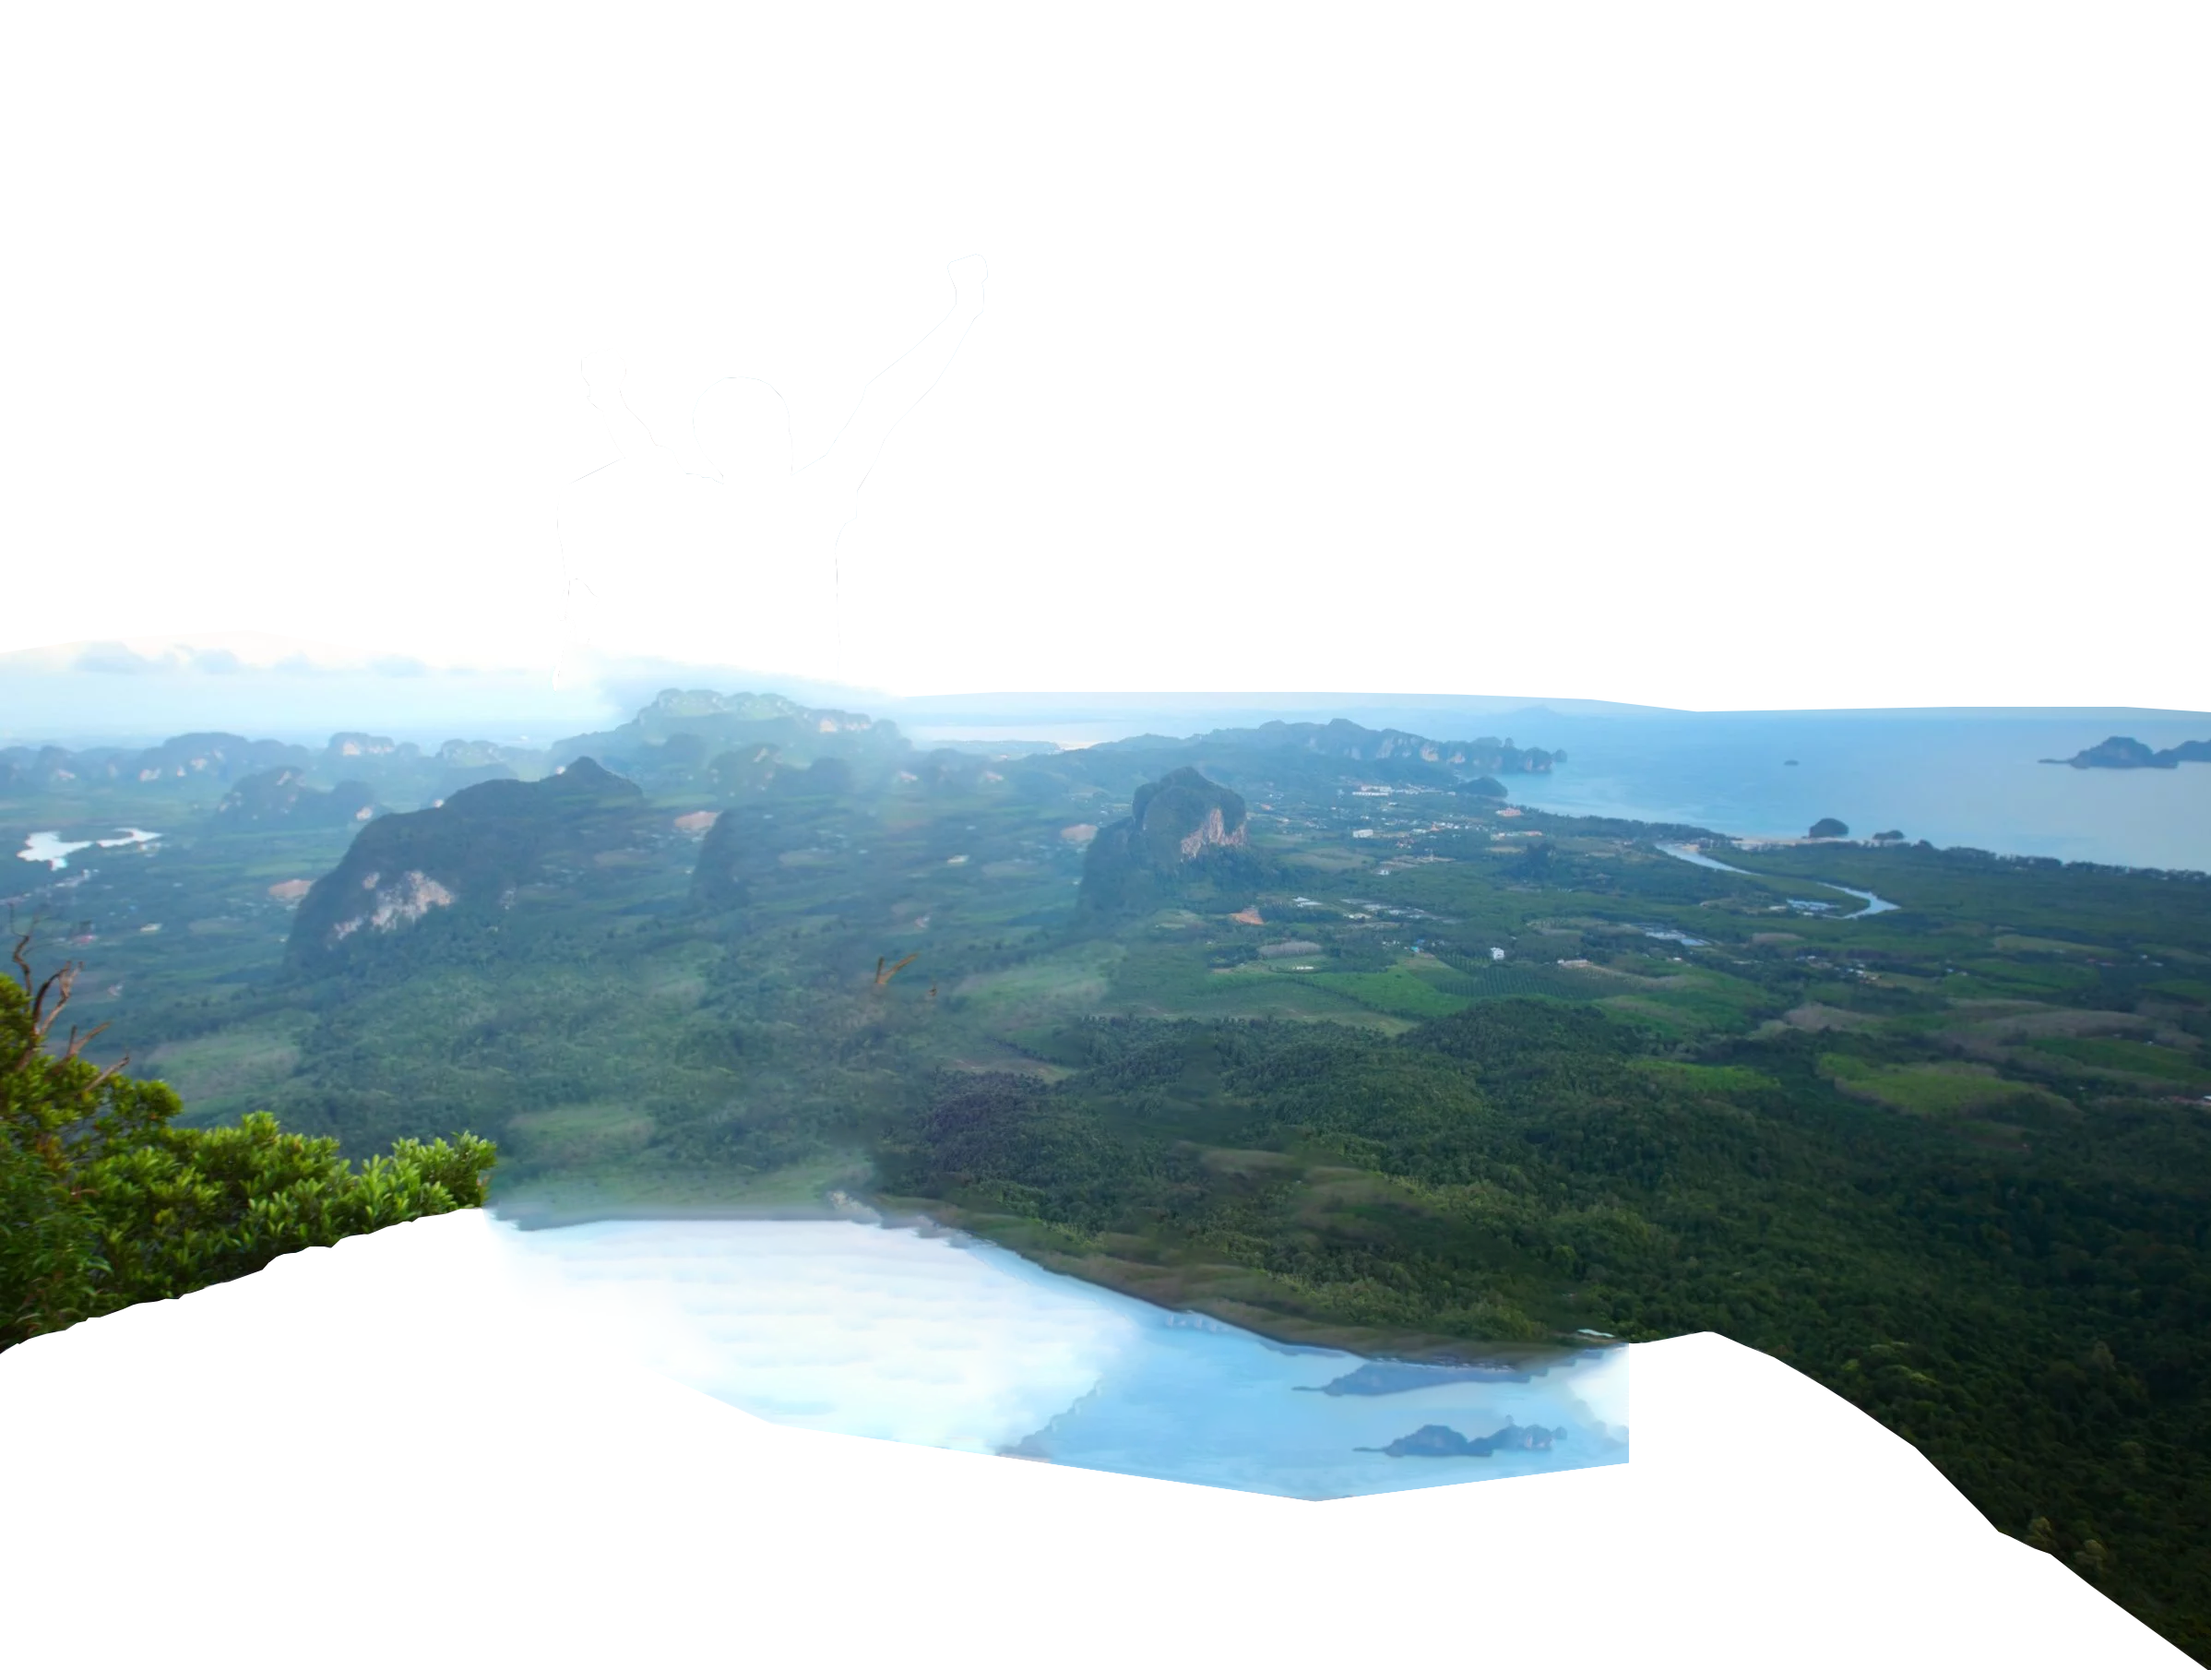
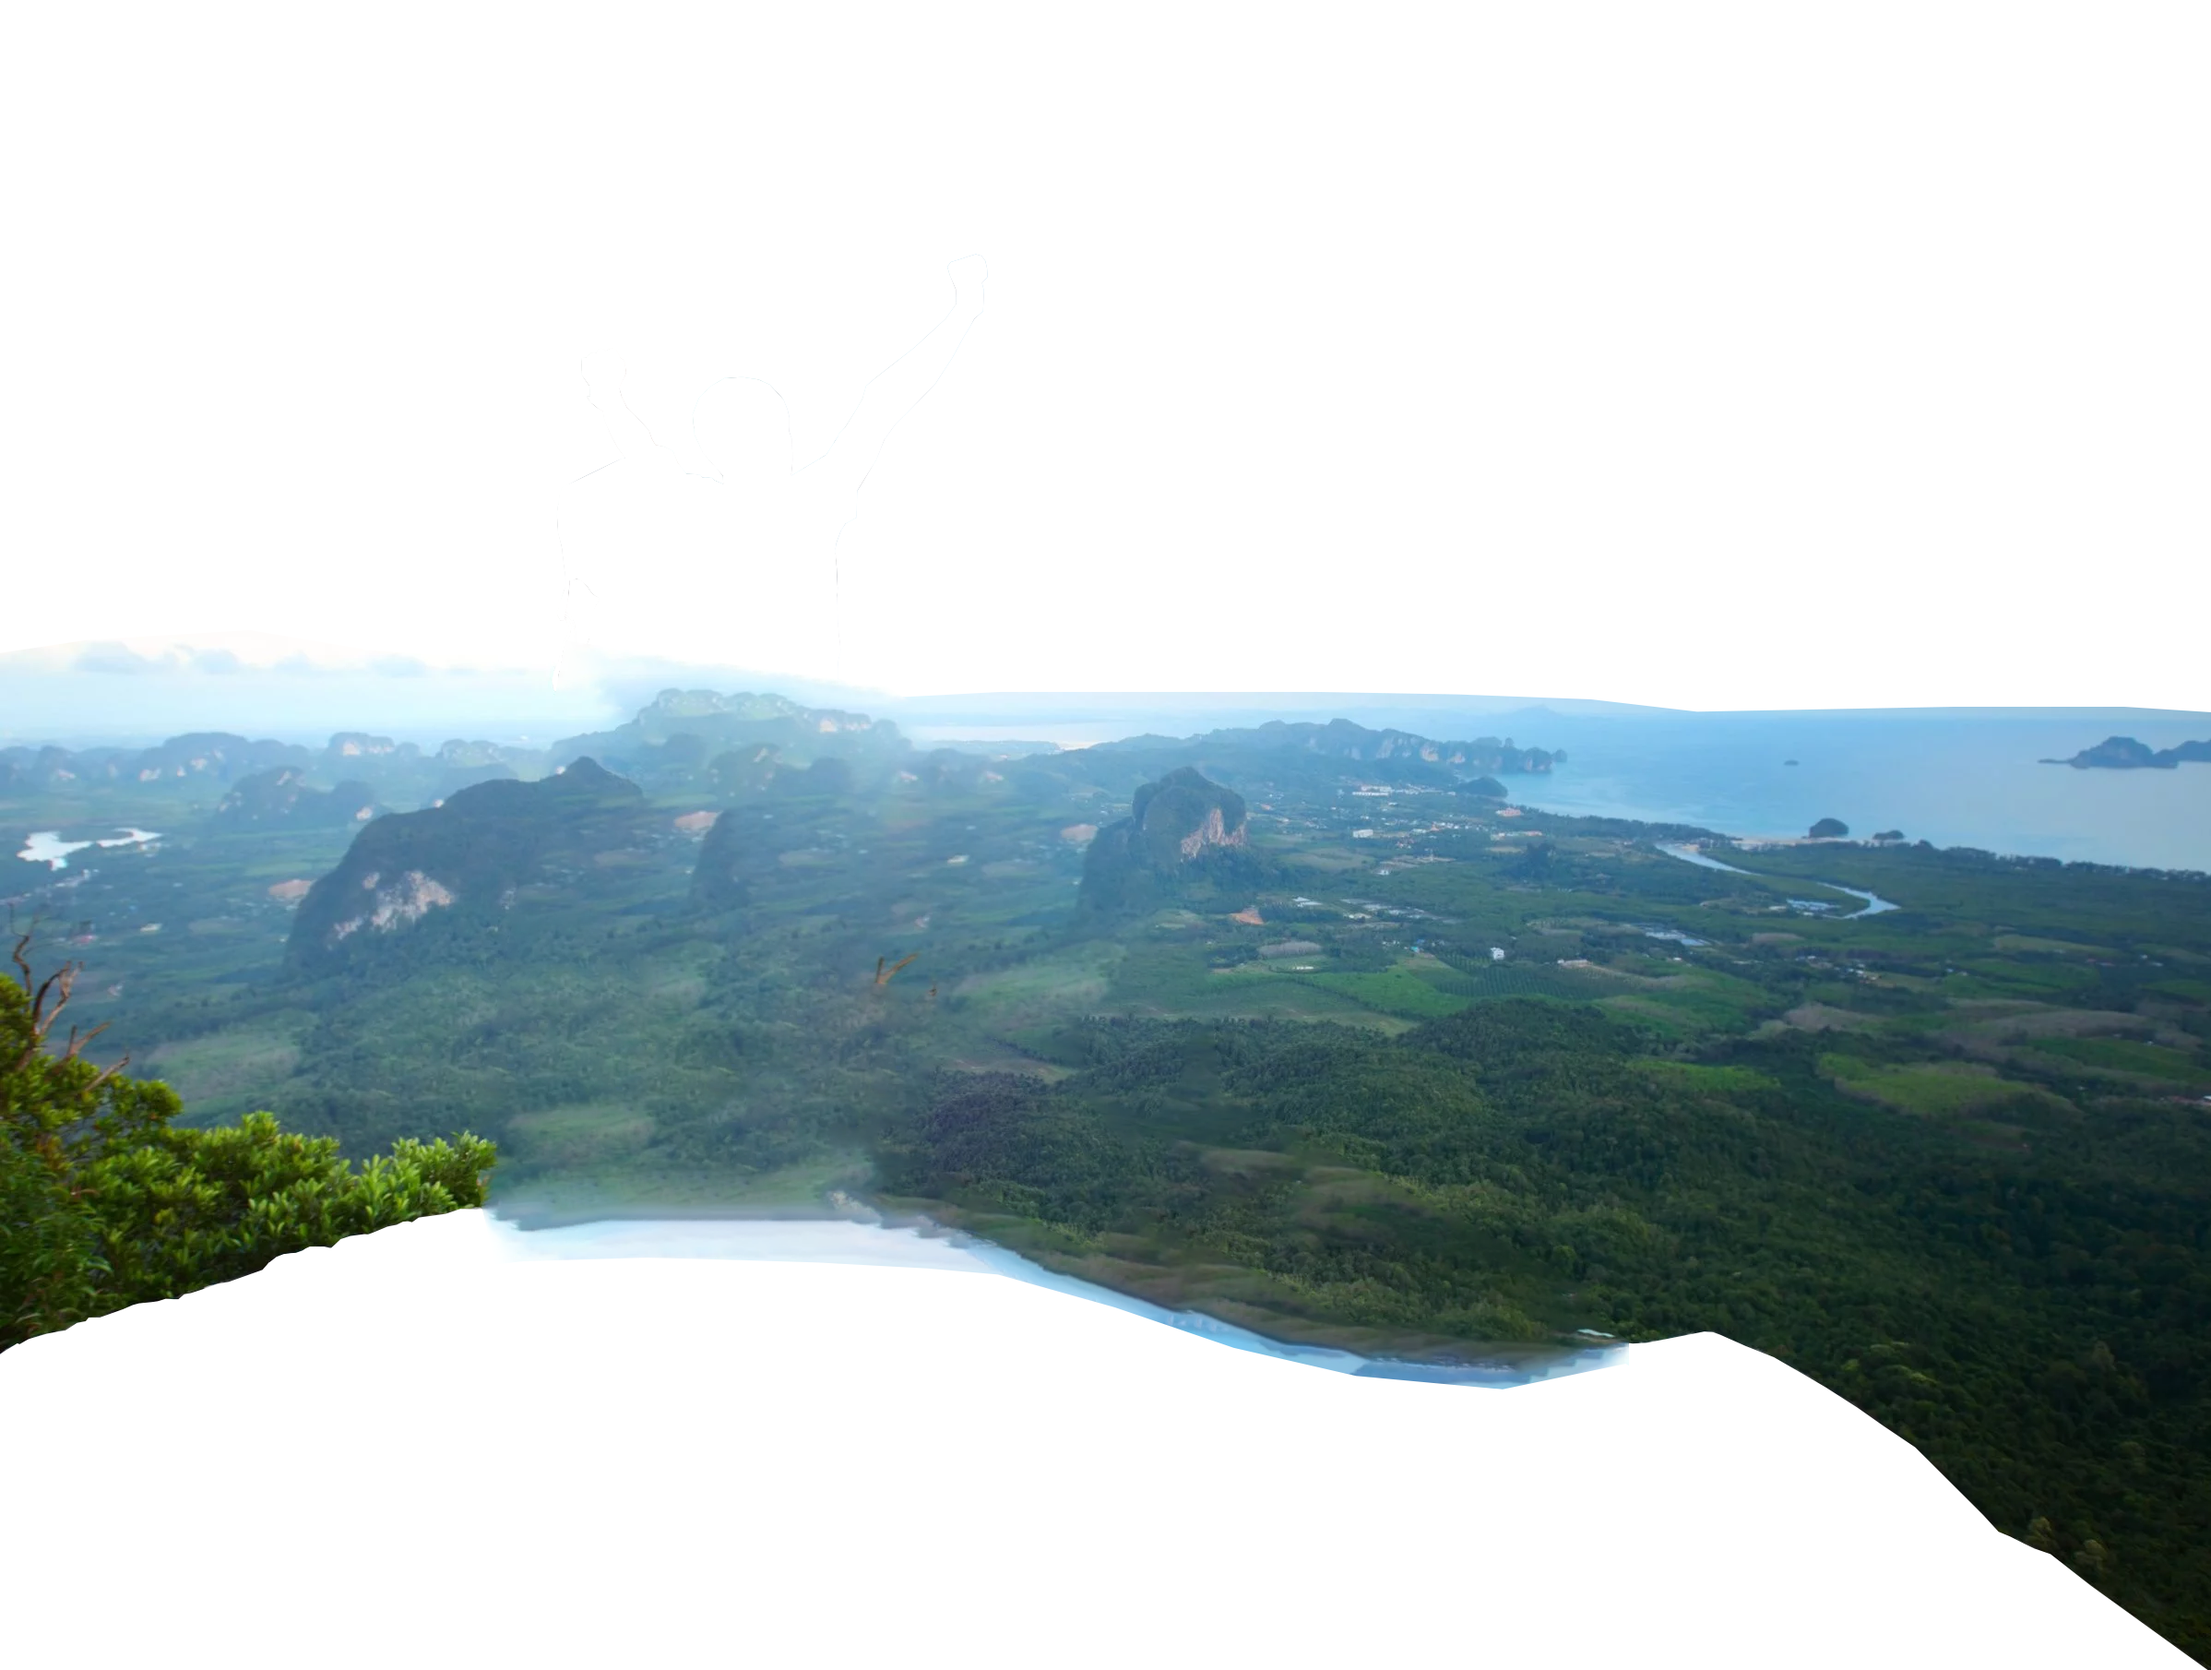
update

Changed region(s): [[0.3087, 0.7425, 0.7409, 0.8972]]

diff --git a/ezapp/static/css/index.css b/ezapp/static/css/index.css
@@ -40,9 +40,6 @@ body {
 
 .d5 {
     z-index: 4;
-    background-color: #171717;
-    width: 100%;
-    height: 100%;
     opacity: 0.2;
 }
 
@@ -102,10 +99,7 @@ img {
 
 .d5up {
     z-index: 4;
-    background-color: #171717;
-    width: 100%;
-    height: 100vh;
-    opacity: 0.3;
+    opacity: 0.2;
 }
 
 .d6up {
@@ -160,10 +154,7 @@ img {
 
 .d5down {
     z-index: 4;
-    background-color: #171717;
-    width: 100%;
-    height: 100vh;
-    opacity: 0.3;
+    opacity: 0.2;
 }
 
 .d6down {

diff --git a/ezapp/templates/index.html b/ezapp/templates/index.html
@@ -18,9 +18,10 @@
             <img src="{% static 'images/index/d3.png' %}" alt="d3">
         </div>
         <div id="d4" class="d4">
-            <img src="{% static 'images/index/d4.png' %}" alt="d3">
+            <img src="{% static 'images/index/d4.png' %}" alt="d4">
         </div>
         <div id="d5" class="d5">
+            <img src="{% static 'images/index/d5.png' %}" alt="d4">
         </div>
         <div id="d6" class="d6">
         </div>
